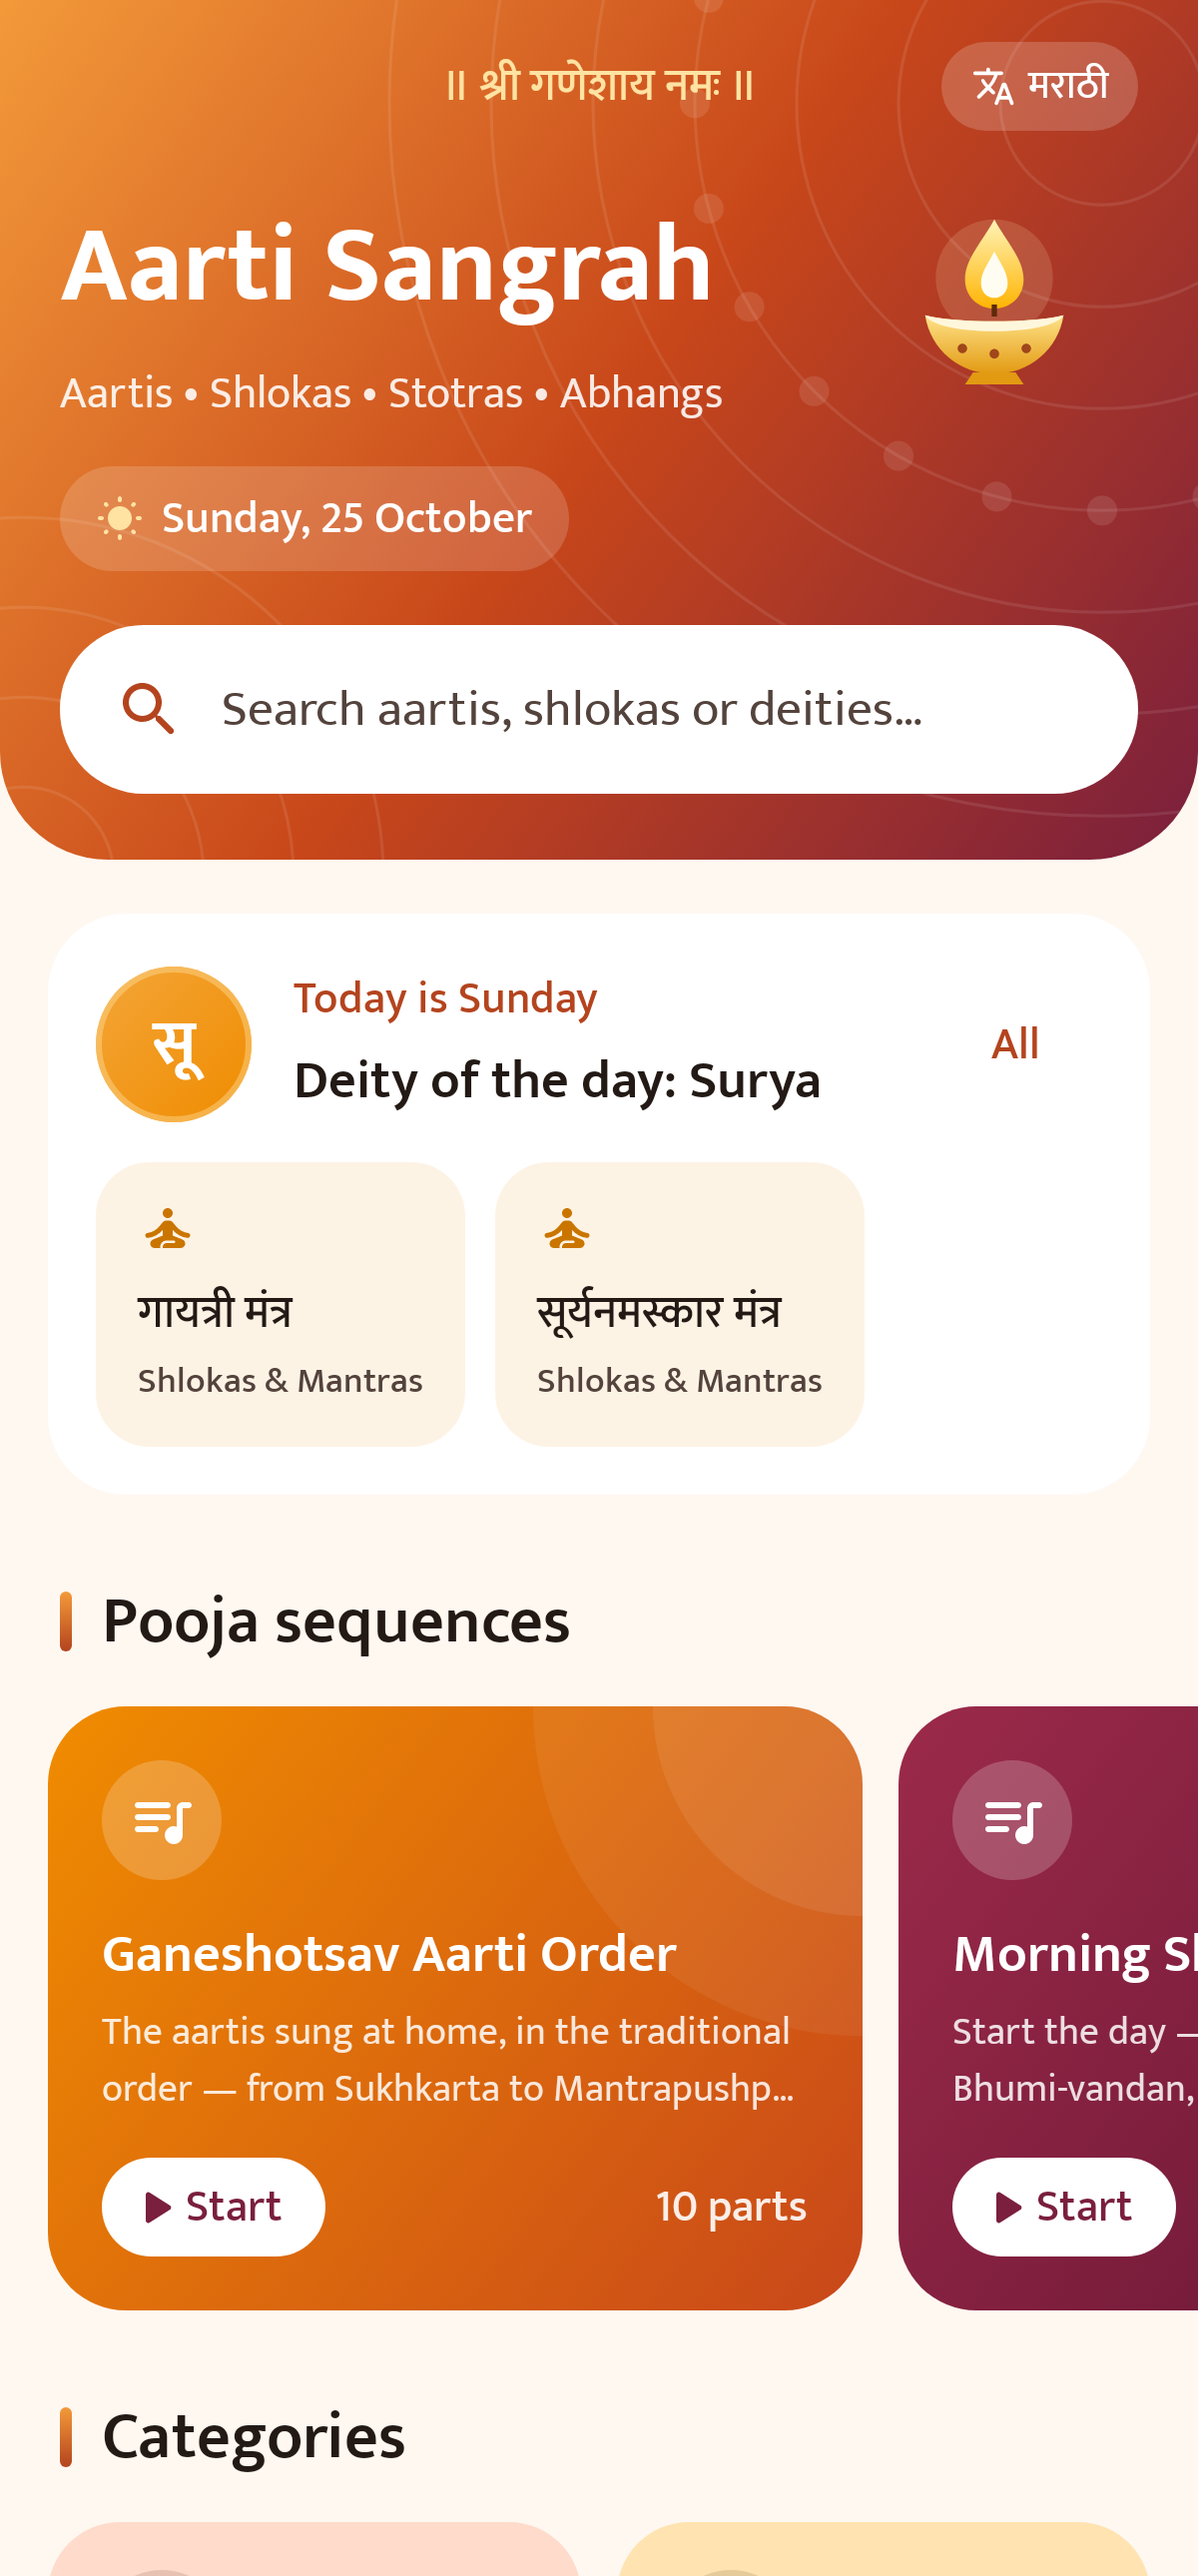
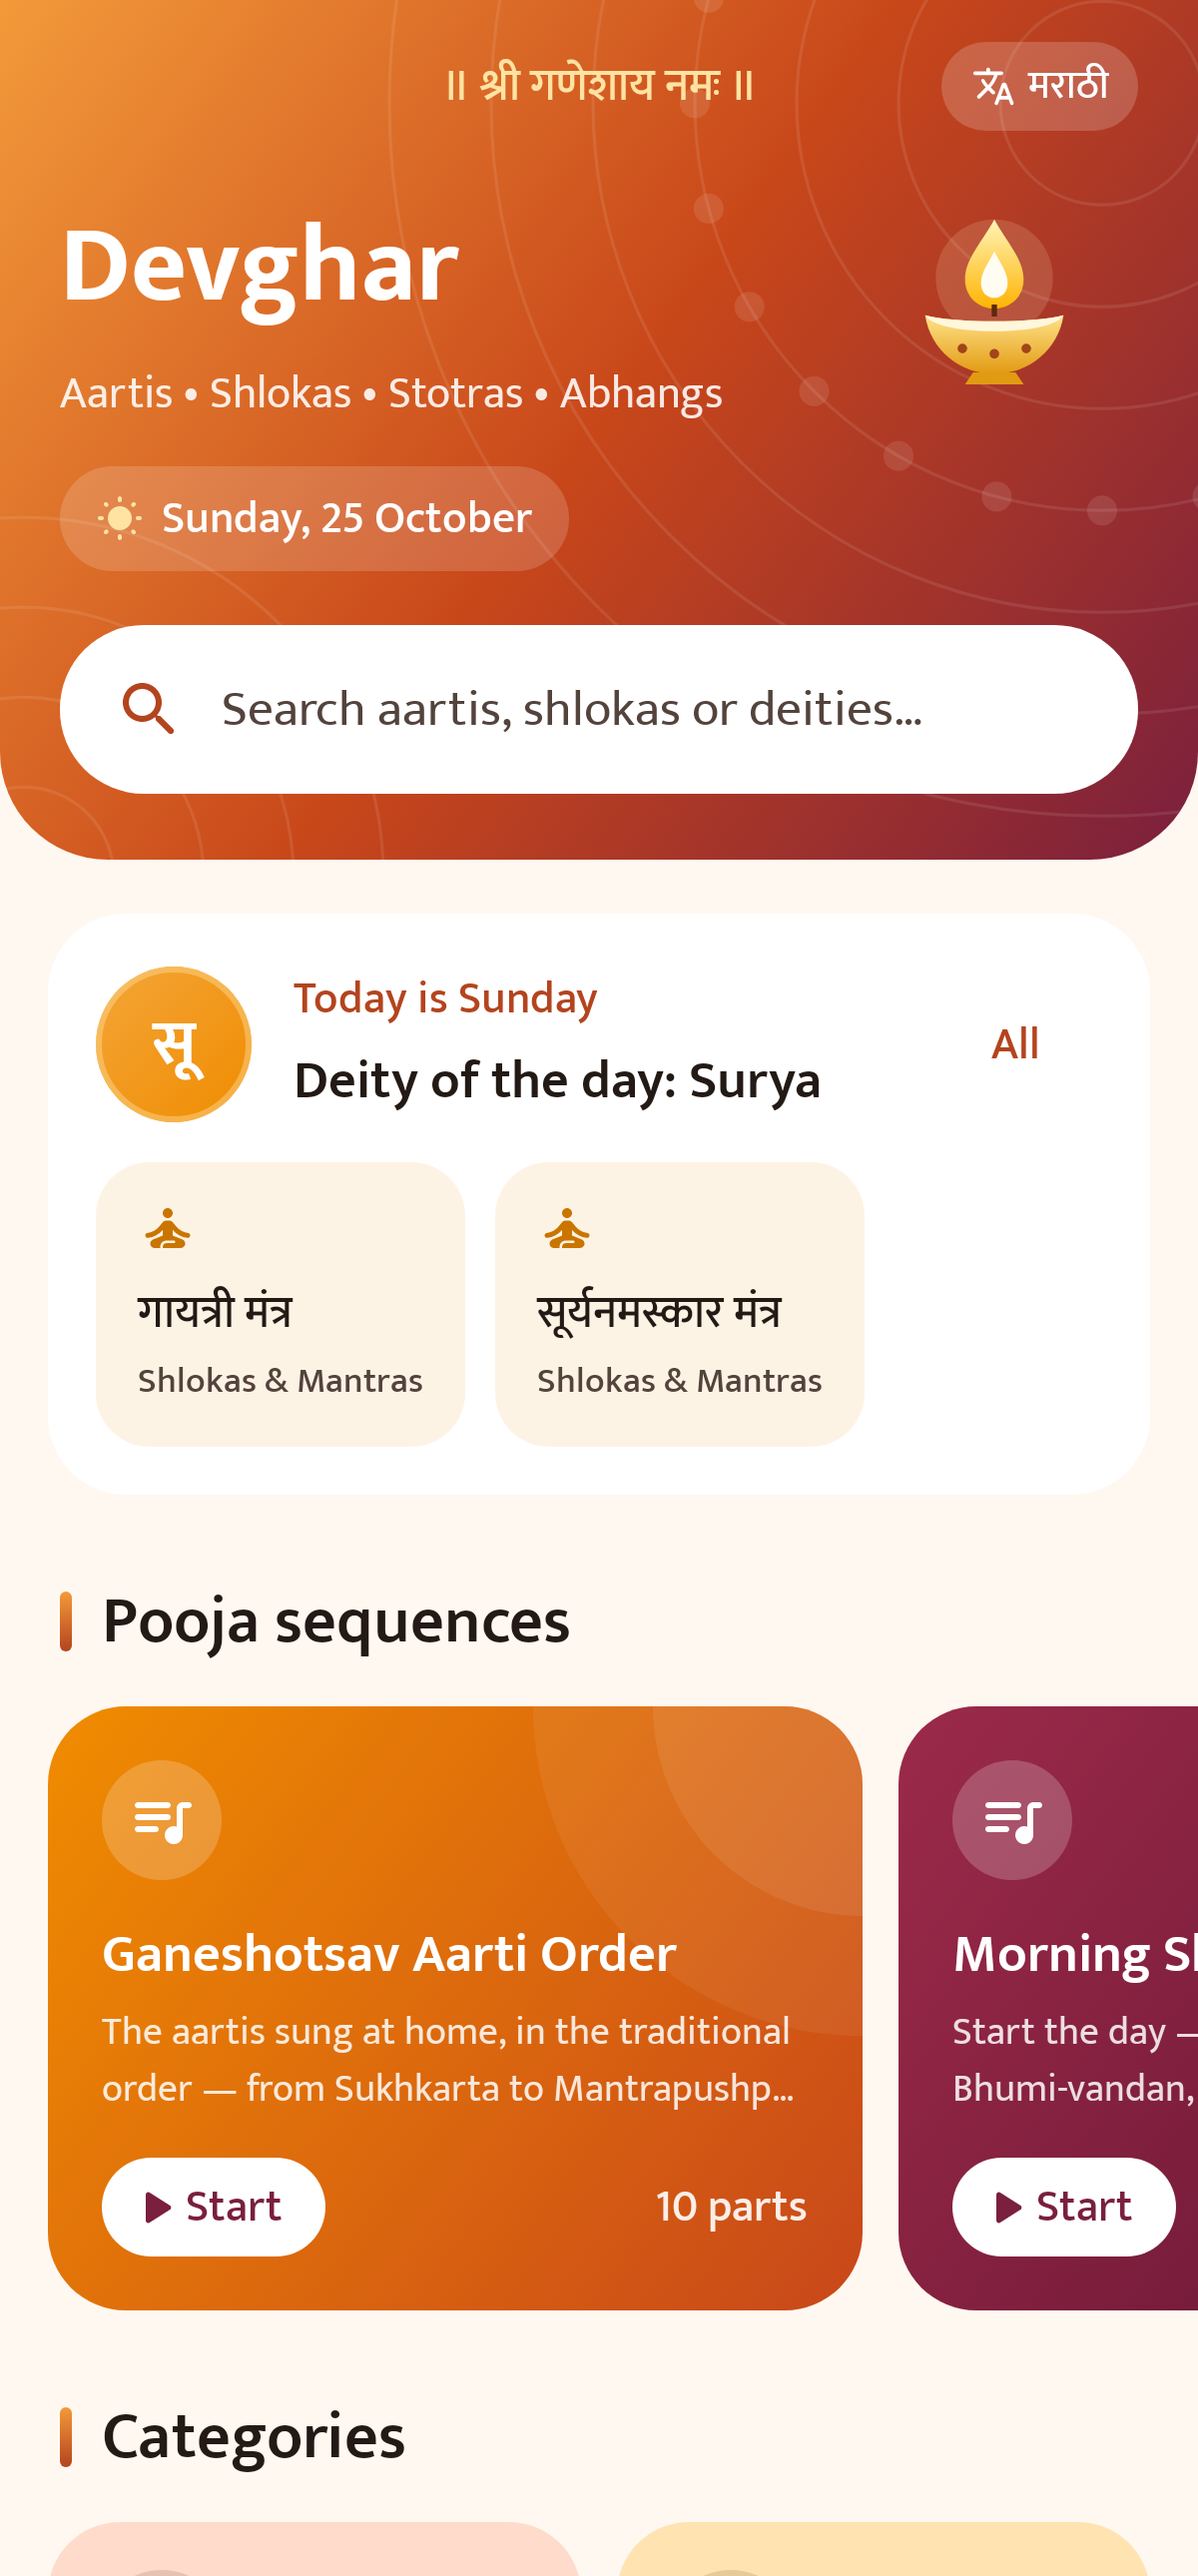
Rename the app to Devghar (देवघर)
The app holds shlokas, stotras and abhangs as well as aartis, so the
shown name changes from Aarti Sangrah to Devghar on the Android launcher,
app header, share text, web app title, iPhone home-screen name, README,
LICENSE and release titles. APKs are now published as Devghar-vX.Y.Z.apk.

Package id, repo, web address, signing key and saved settings are
unchanged, so existing installs update in place and old links work.

Changed region(s): [[0.0308, 0.062, 0.5858, 0.124]]

diff --git a/web/app.js b/web/app.js
@@ -1,4 +1,4 @@
-/* आरती संग्रह — web / iPhone version of the Android app. No libraries, no tracking.
+/* देवघर (Devghar) — web / iPhone version of the Android app. No libraries, no tracking.
  * Content comes from content.json (the same file the Android app uses). Favourites and
  * settings stay in this browser's localStorage. */
 'use strict';
@@ -43,13 +43,13 @@
   const STR = {
     mr: {
       tabHome: 'मुख्य', tabSearch: 'शोधा', tabFav: 'आवडते', tabSettings: 'सेटिंग्ज', back: 'मागे',
-      appName: 'आरती संग्रह', tagline: 'आरत्या • श्लोक • स्तोत्रे • अभंग', searchHint: 'आरती, श्लोक किंवा देव शोधा…',
+      appName: 'देवघर', tagline: 'आरत्या • श्लोक • स्तोत्रे • अभंग', searchHint: 'आरती, श्लोक किंवा देव शोधा…',
       otherLang: 'English', sequences: 'पूजा क्रम', categories: 'प्रकार', deities: 'देवता', recent: 'अलीकडे वाचलेले',
       start: 'सुरू करा', all: 'सर्व', footer: 'खाते नाही • जाहिराती नाहीत • इंटरनेटशिवायही चालते',
       today: d => `आज ${MR_DAYS[d.getDay()]}`, deityOfDay: n => `आजचे दैवत: ${n}`,
       parts: n => `${mrNum(n)} भाग`, texts: n => `${mrNum(n)} रचना`,
       textSize: 'अक्षरांचा आकार', share: 'शेअर करा', prev: 'मागील', next: 'पुढील',
-      addFav: 'आवडत्यांत जोडा', removeFav: 'आवडत्यांतून काढा', shareFooter: '— आरती संग्रह', by: a => `रचना: ${a}`,
+      addFav: 'आवडत्यांत जोडा', removeFav: 'आवडत्यांतून काढा', shareFooter: '— देवघर', by: a => `रचना: ${a}`,
       searchSub: 'मराठी किंवा इंग्रजीत शोधा — उदा. सुखकर्ता, ganpati, ramraksha', searchPh: 'आरती, श्लोक, देव किंवा ओळ…',
       clear: 'पुसा', results: 'शोध परिणाम', noResults: 'काही सापडले नाही',
       noResultsHint: 'दुसरा शब्द वापरून पहा. इंग्रजी अक्षरांतही शोधता येते — उदा. aarti, vitthal, datta.',
@@ -60,7 +60,7 @@
       appearance: 'दिसणे', theme: 'रंगसंगती', auto: 'आपोआप', day: 'दिवस', night: 'रात्र',
       keepAwake: 'वाचताना स्क्रीन चालू ठेवा', keepAwakeHint: 'आरती म्हणताना स्क्रीन बंद होणार नाही',
       keepAwakeNo: 'हा ब्राउझर ही सुविधा देत नाही.',
-      updates: 'अपडेट्स', collection: 'आरती संग्रह', collectionInfo: (v, n) => `आवृत्ती ${mrNum(v)} • ${mrNum(n)} रचना`,
+      updates: 'अपडेट्स', collection: 'आरत्या व श्लोक', collectionInfo: (v, n) => `आवृत्ती ${mrNum(v)} • ${mrNum(n)} रचना`,
       checkNew: 'नवीन तपासा', otaNote: 'नवीन आरत्या इंटरनेट असताना आपोआप येतात.',
       about: 'माहिती',
       aboutText: 'हे ॲप पूर्णपणे मोफत आहे — खाते नाही, जाहिराती नाहीत, तुमची कोणतीही माहिती गोळा केली जात नाही. एकदा उघडल्यावर इंटरनेटशिवायही चालते.',
@@ -70,18 +70,18 @@
       installAndroid: 'होम स्क्रीनवर आयकॉन ठेवा — इंटरनेटशिवायही चालेल.', install: 'इंस्टॉल', dismiss: 'बंद करा',
       copied: 'मजकूर कॉपी केला', appUpdated: 'ॲपची नवीन आवृत्ती आली', refresh: 'रीफ्रेश',
       upToDate: 'सर्व आरत्या अद्ययावत आहेत 🙏', offline: 'इंटरनेट जोडणी तपासा आणि पुन्हा प्रयत्न करा',
-      contentUpdated: n => n > 0 ? `${mrNum(n)} नवीन आरत्या/श्लोक जोडले गेले 🌼` : 'आरती संग्रह अद्ययावत झाला 🌼',
+      contentUpdated: n => n > 0 ? `${mrNum(n)} नवीन आरत्या/श्लोक जोडले गेले 🌼` : 'आरत्या व श्लोक अद्ययावत झाले 🌼',
       loadError: 'आरत्या लोड झाल्या नाहीत. इंटरनेट तपासून पुन्हा प्रयत्न करा.', retry: 'पुन्हा प्रयत्न करा',
     },
     en: {
       tabHome: 'Home', tabSearch: 'Search', tabFav: 'Favourites', tabSettings: 'Settings', back: 'Back',
-      appName: 'Aarti Sangrah', tagline: 'Aartis • Shlokas • Stotras • Abhangs', searchHint: 'Search aartis, shlokas or deities…',
+      appName: 'Devghar', tagline: 'Aartis • Shlokas • Stotras • Abhangs', searchHint: 'Search aartis, shlokas or deities…',
       otherLang: 'मराठी', sequences: 'Pooja sequences', categories: 'Categories', deities: 'Deities', recent: 'Recently read',
       start: 'Start', all: 'All', footer: 'No account • No ads • Works offline',
       today: d => `Today is ${EN_DAYS[d.getDay()]}`, deityOfDay: n => `Deity of the day: ${n}`,
       parts: n => (n === 1 ? '1 part' : `${n} parts`), texts: n => (n === 1 ? '1 text' : `${n} texts`),
       textSize: 'Text size', share: 'Share', prev: 'Previous', next: 'Next',
-      addFav: 'Add to favourites', removeFav: 'Remove from favourites', shareFooter: '— Aarti Sangrah', by: a => `By ${a}`,
+      addFav: 'Add to favourites', removeFav: 'Remove from favourites', shareFooter: '— Devghar', by: a => `By ${a}`,
       searchSub: 'Type in English or Marathi — e.g. ganpati, ramraksha, सुखकर्ता', searchPh: 'Aarti, shloka, deity or a line…',
       clear: 'Clear', results: 'Search results', noResults: 'Nothing found',
       noResultsHint: 'Try another word. English spellings work too — e.g. aarti, vitthal, datta.',
@@ -92,7 +92,7 @@
       appearance: 'Appearance', theme: 'Theme', auto: 'Auto', day: 'Day', night: 'Night',
       keepAwake: 'Keep screen on while reading', keepAwakeHint: "The screen won't sleep during an aarti",
       keepAwakeNo: "This browser doesn't support it.",
-      updates: 'Updates', collection: 'Aarti collection', collectionInfo: (v, n) => `Version ${v} • ${n} texts`,
+      updates: 'Updates', collection: 'Aartis & shlokas', collectionInfo: (v, n) => `Version ${v} • ${n} texts`,
       checkNew: 'Check for new', otaNote: 'New aartis arrive automatically whenever you are online.',
       about: 'About',
       aboutText: 'This app is completely free — no account, no ads, and none of your data is collected. Once opened, it works without internet too.',
@@ -102,7 +102,7 @@
       installAndroid: 'Add an icon to your home screen — it works offline too.', install: 'Install', dismiss: 'Close',
       copied: 'Text copied', appUpdated: 'A new version of the app is ready', refresh: 'Refresh',
       upToDate: 'All aartis are up to date 🙏', offline: 'Check your internet connection and try again',
-      contentUpdated: n => (n > 0 ? `${n} new aartis/shlokas added 🌼` : 'Aarti collection updated 🌼'),
+      contentUpdated: n => (n > 0 ? `${n} new aartis/shlokas added 🌼` : 'Aartis & shlokas updated 🌼'),
       loadError: "Couldn't load the aartis. Check your internet and try again.", retry: 'Try again',
     },
   };

diff --git a/app/src/main/java/com/nilkanth/aartisangrah/ui/Strings.kt b/app/src/main/java/com/nilkanth/aartisangrah/ui/Strings.kt
@@ -29,7 +29,7 @@ class Strings private constructor(val language: AppLanguage) {
     val back = t("मागे", "Back")
 
     // Home
-    val appName = t("आरती संग्रह", "Aarti Sangrah")
+    val appName = t("देवघर", "Devghar")
     val appTagline = t("आरत्या • श्लोक • स्तोत्रे • अभंग", "Aartis • Shlokas • Stotras • Abhangs")
     val searchHint = t("आरती, श्लोक किंवा देव शोधा…", "Search aartis, shlokas or deities…")
     /** Label of the quick language switch: always names the *other* language. */
@@ -59,7 +59,7 @@ class Strings private constructor(val language: AppLanguage) {
     val next = t("पुढील", "Next")
     val addFavorite = t("आवडत्यांत जोडा", "Add to favourites")
     val removeFavorite = t("आवडत्यांतून काढा", "Remove from favourites")
-    val shareFooter = t("— आरती संग्रह ॲप", "— Aarti Sangrah app")
+    val shareFooter = t("— देवघर ॲप", "— Devghar app")
     fun composedBy(author: String) = t("रचना: $author", "By $author")
 
     // Search
@@ -101,7 +101,7 @@ class Strings private constructor(val language: AppLanguage) {
     val keepScreenOn = t("वाचताना स्क्रीन चालू ठेवा", "Keep screen on while reading")
     val keepScreenOnHint = t("आरती म्हणताना स्क्रीन बंद होणार नाही", "The screen won't sleep during an aarti")
     val updates = t("अपडेट्स", "Updates")
-    val collection = t("आरती संग्रह", "Aarti collection")
+    val collection = t("आरत्या व श्लोक", "Aartis & shlokas")
     fun collectionInfo(version: Int, count: Int) =
         t("आवृत्ती ${num(version)} • ${num(count)} रचना", "Version $version • $count texts")
     val checkNew = t("नवीन तपासा", "Check for new")
@@ -125,7 +125,7 @@ class Strings private constructor(val language: AppLanguage) {
     fun message(m: UiMessage): String = when (m) {
         is UiMessage.ContentUpdated ->
             if (m.newItems > 0) t("${num(m.newItems)} नवीन आरत्या/श्लोक जोडले गेले 🌼", "${m.newItems} new aartis/shlokas added 🌼")
-            else t("आरती संग्रह अद्ययावत झाला 🌼", "Aarti collection updated 🌼")
+            else t("आरत्या व श्लोक अद्ययावत झाले 🌼", "Aartis & shlokas updated 🌼")
         UiMessage.ContentUpToDate -> t("सर्व आरत्या अद्ययावत आहेत 🙏", "All aartis are up to date 🙏")
         UiMessage.NeedsAppUpdate -> t("नवीन मजकुरासाठी कृपया ॲप अपडेट करा", "Please update the app to get the new content")
         UiMessage.Offline -> t("इंटरनेट जोडणी तपासा आणि पुन्हा प्रयत्न करा", "Check your internet connection and try again")

diff --git a/web/index.html b/web/index.html
@@ -3,8 +3,8 @@
 <head>
   <meta charset="utf-8">
   <meta name="viewport" content="width=device-width, initial-scale=1, viewport-fit=cover">
-  <title>आरती संग्रह — Aarti Sangrah</title>
-  <meta name="description" content="मराठी आरत्या, श्लोक, स्तोत्रे व अभंग देवनागरीत. Marathi aartis, shlokas, stotras and abhangs in Devanagari — free, no account, works offline.">
+  <title>देवघर — Devghar</title>
+  <meta name="description" content="Devghar (देवघर): Marathi aartis, shlokas, stotras and abhangs in Devanagari — free, no account, works offline.">
   <meta name="theme-color" content="#C8471A">
   <link rel="manifest" href="manifest.webmanifest">
   <link rel="icon" href="icons/favicon.svg" type="image/svg+xml">
@@ -13,7 +13,7 @@
   <meta name="mobile-web-app-capable" content="yes">
   <meta name="apple-mobile-web-app-capable" content="yes">
   <meta name="apple-mobile-web-app-status-bar-style" content="black-translucent">
-  <meta name="apple-mobile-web-app-title" content="आरती संग्रह">
+  <meta name="apple-mobile-web-app-title" content="देवघर">
   <link rel="preload" href="fonts/mukta_regular.ttf" as="font" type="font/ttf" crossorigin>
   <link rel="stylesheet" href="app.css?v=__BUILD_ID__">
 </head>

diff --git a/web/app.css b/web/app.css
@@ -1,4 +1,4 @@
-/* आरती संग्रह — web / iPhone version. Mirrors the Android app's Material 3 theme. */
+/* देवघर (Devghar) — web / iPhone version. Mirrors the Android app's Material 3 theme. */
 
 @font-face { font-family: "Mukta"; src: url("fonts/mukta_regular.ttf") format("truetype"); font-weight: 400; font-display: swap; }
 @font-face { font-family: "Mukta"; src: url("fonts/mukta_semibold.ttf") format("truetype"); font-weight: 600; font-display: swap; }

diff --git a/README.md b/README.md
@@ -1,4 +1,6 @@
-# 🪔 Aarti Sangrah (आरती संग्रह)
+# 🪔 Devghar (देवघर)
+
+*Formerly called Aarti Sangrah.*
 
 A free app with the **aartis, shlokas, stotras and abhangs** sung in Marathi homes, in Devanagari,
 with a clean and easy-to-use design. The menus can be in Marathi or English; the texts themselves
@@ -26,7 +28,7 @@ always stay in Devanagari.
 
 ### Install on Android
 
-1. Open the link above on your phone and download `AartiSangrah-vX.Y.Z.apk`.
+1. Open the link above on your phone and download `Devghar-vX.Y.Z.apk`.
 2. Open the downloaded file.
 3. If the phone asks for permission to **Install unknown apps**, allow it for your browser.
 4. Tap **Install**. Done! 🙏
@@ -42,7 +44,7 @@ switch. It can be kept on the home screen like a normal app and works offline af
 1. Open **[nilkanth01.github.io/aarti-sangrah](https://nilkanth01.github.io/aarti-sangrah/)** in **Safari**.
 2. Tap the **Share** button (the square with an arrow pointing up).
 3. Scroll down, tap **Add to Home Screen**, then tap **Add**.
-4. Open the 🪔 app from your home screen. Done! 🙏
+4. Open the 🪔 **Devghar** app from your home screen. Done! 🙏
 
 > The web app also works on Android phones and computers in any modern browser. It needs no App Store
 > listing or Apple account, and it shows new aartis automatically because it reads the same
